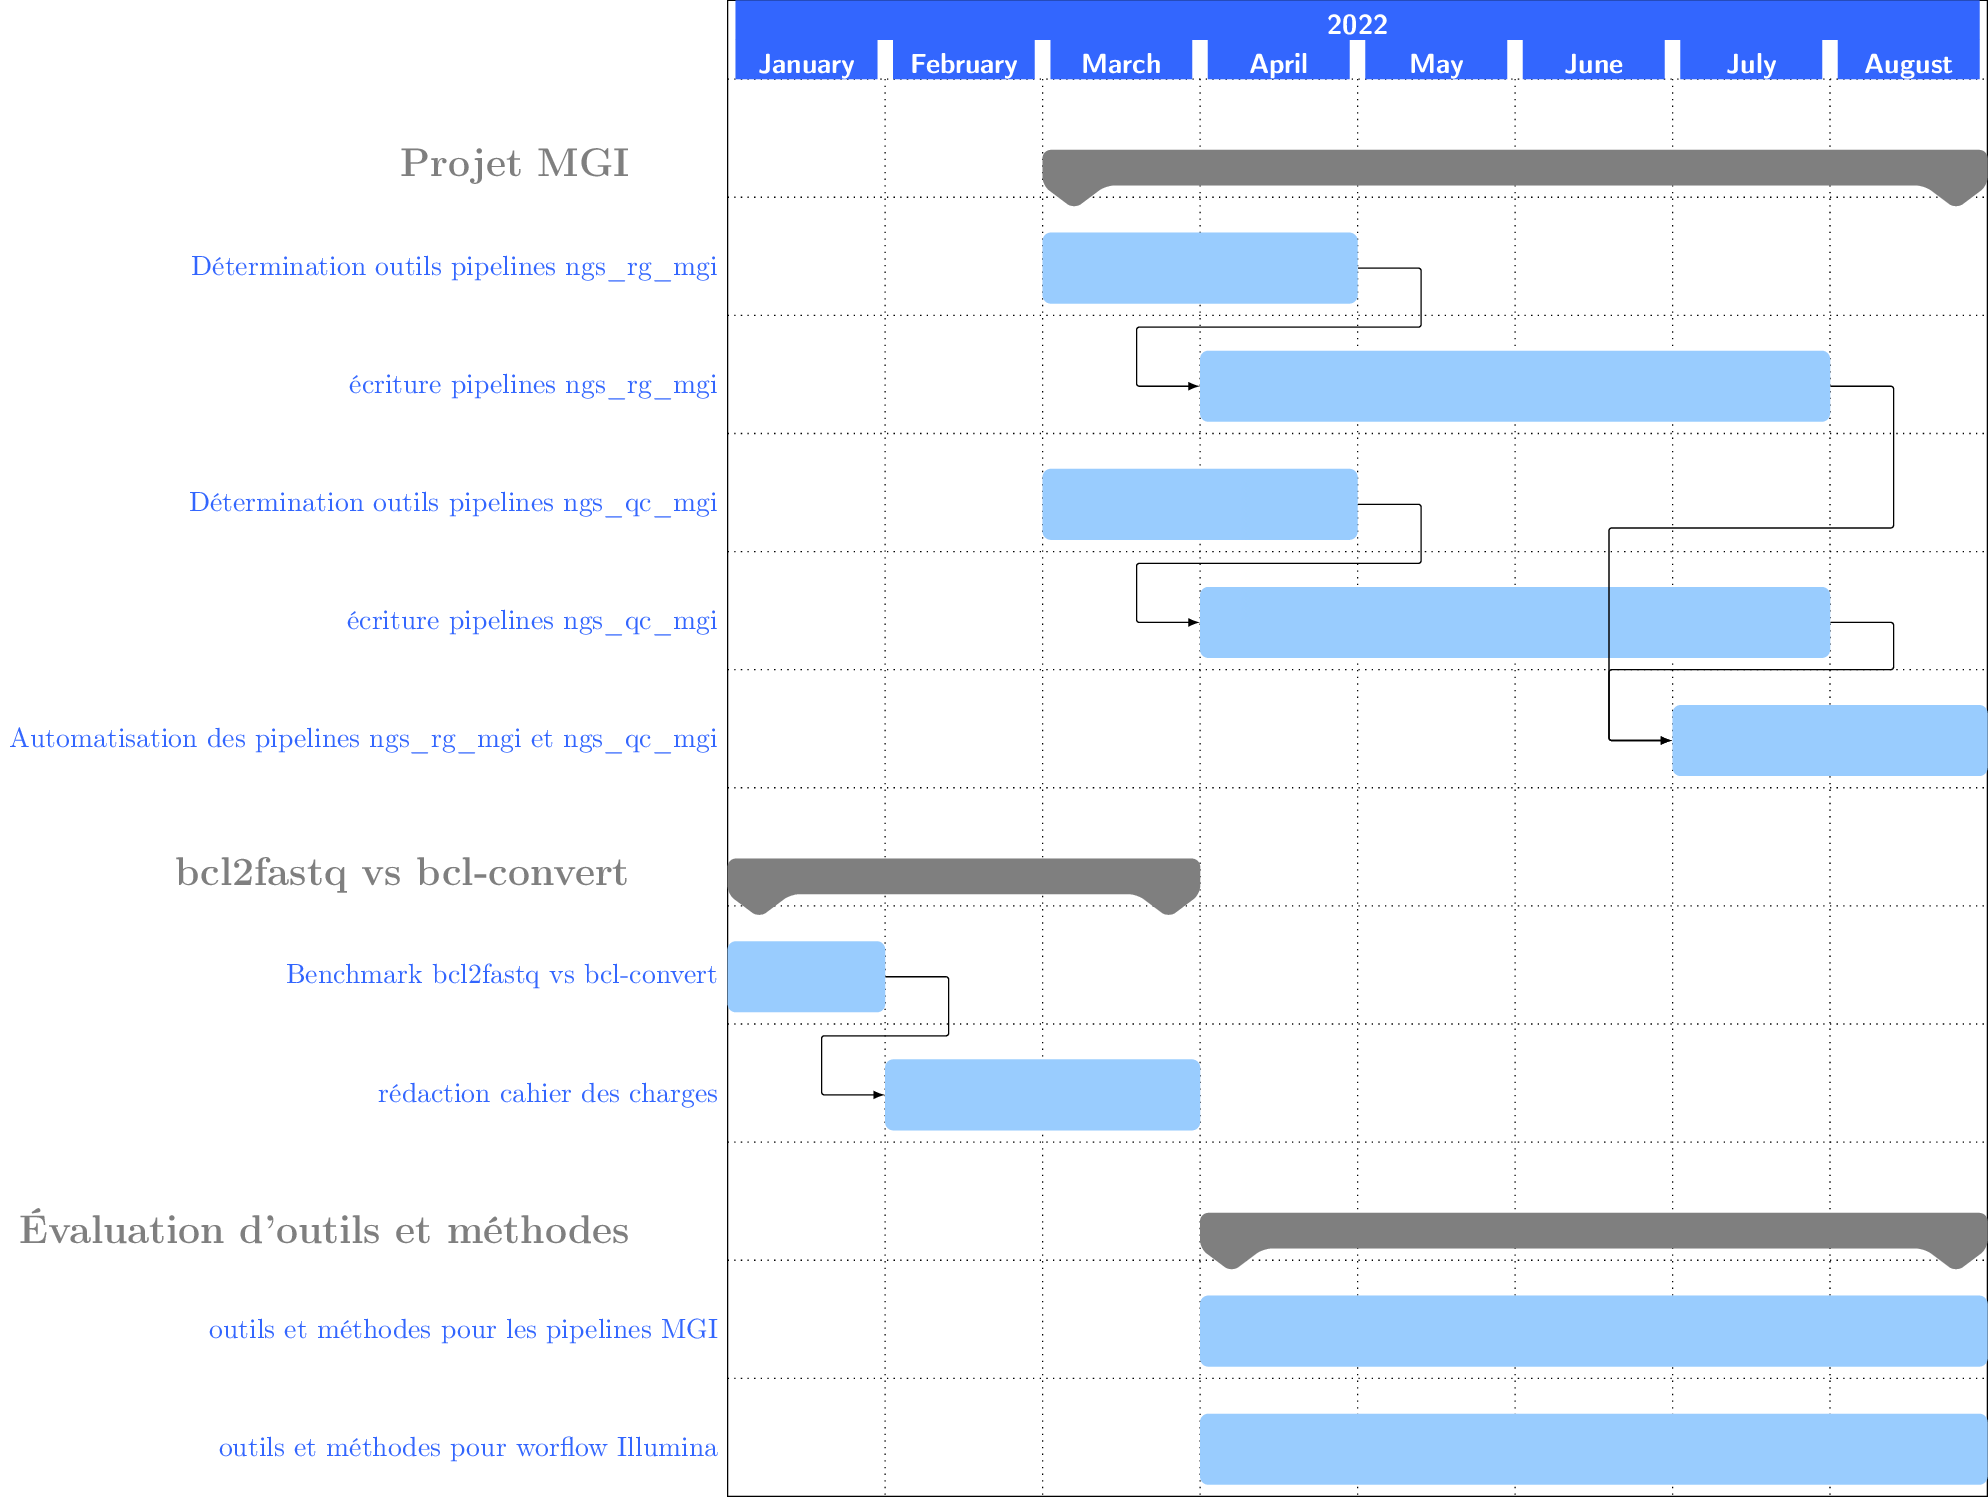
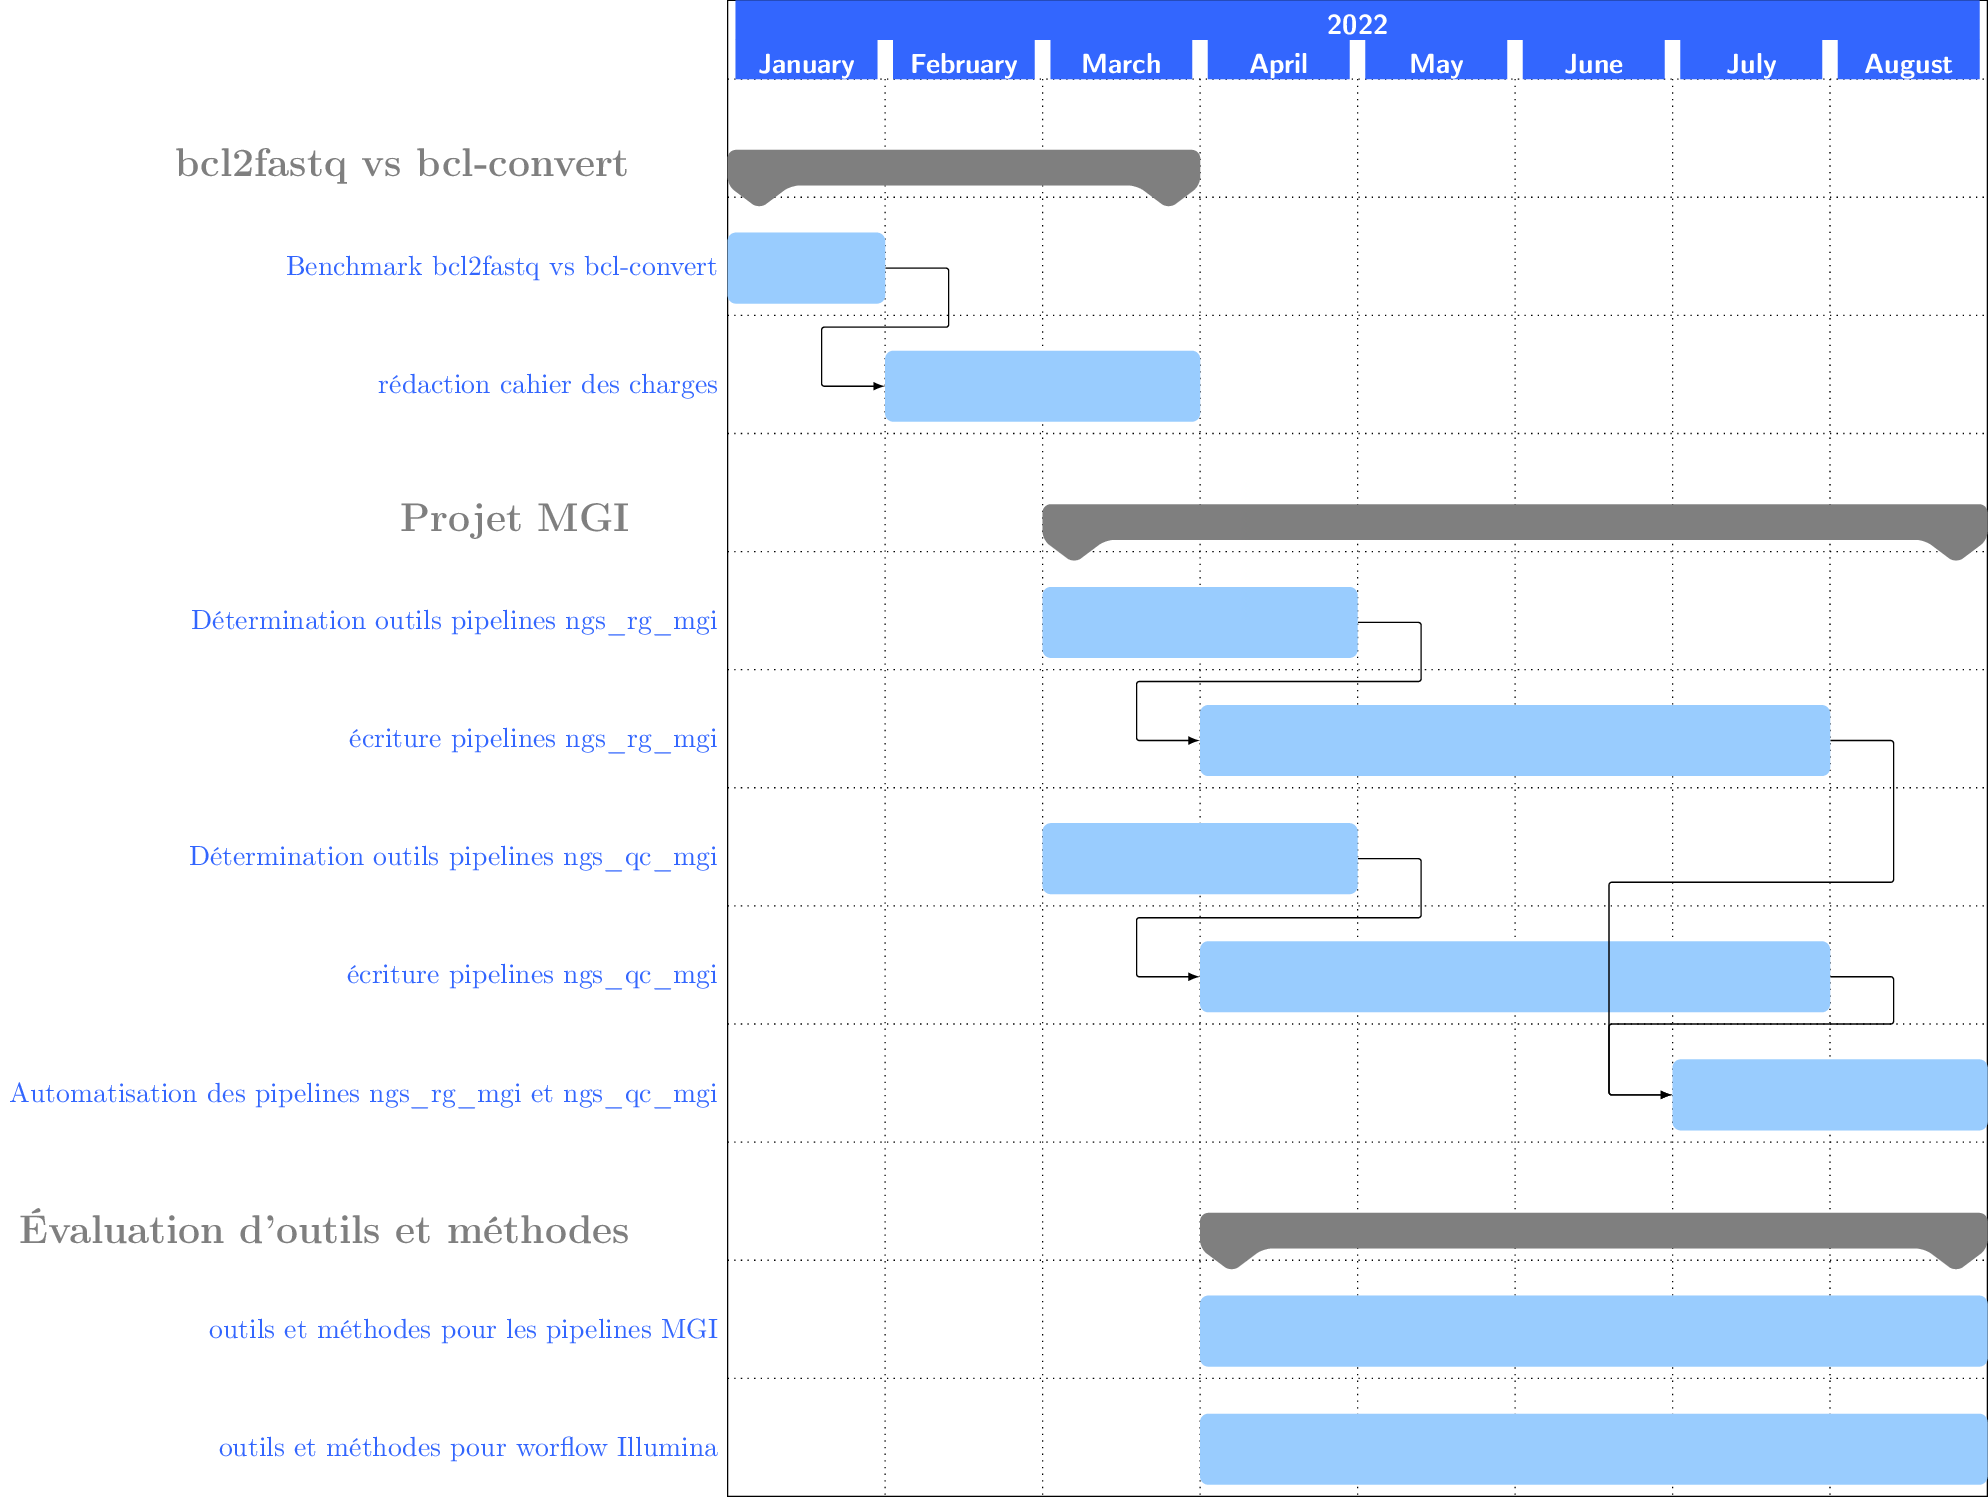
Change order of tasks

diff --git a/rapport/rapport_1/digramme_gant/diag_gantt.tex b/rapport/rapport_1/digramme_gant/diag_gantt.tex
@@ -51,7 +51,26 @@
 
 \gantttitlecalendar{year, month=name}\\
 
-% 1er goupe ======================================================%
+
+
+% 1er groupe =====================================================%
+\ganttgroup[
+    group left shift=0,
+    group right shift=0,
+    group label font=\color{gray},
+]{\Large{\textbf{bcl2fastq vs bcl-convert}}~~~~~~~~}{2022-01-01}{2022-03-01}\\
+
+\ganttbar[
+    name=T1A,
+    bar label font=\normalsize\color{barblue},
+]{Benchmark bcl2fastq vs bcl-convert}{2022-01-01}{2022-01-29}\\
+
+\ganttlinkedbar[
+    bar label font=\normalsize\color{barblue},
+    name=pp
+   ]{rédaction cahier des charges}{2022-02-03}{2022-03-14} \\
+
+% 2ème groupe ======================================================%
 \ganttgroup[
     group left shift=0,
     group right shift=0,
@@ -87,22 +106,7 @@
 \ganttlink[link mid=.4]{P1-T2.1}{P1-T3}
 
 
-% 2eme groupe =====================================================%
-\ganttgroup[
-    group left shift=0,
-    group right shift=0,
-    group label font=\color{gray},
-]{\Large{\textbf{bcl2fastq vs bcl-convert}}~~~~~~~~}{2022-01-01}{2022-03-01}\\
 
-\ganttbar[
-    name=T1A,
-    bar label font=\normalsize\color{barblue},
-]{Benchmark bcl2fastq vs bcl-convert}{2022-01-01}{2022-01-29}\\
-
-\ganttlinkedbar[
-    bar label font=\normalsize\color{barblue},
-    name=pp
-   ]{rédaction cahier des charges}{2022-02-03}{2022-03-14} \\
 
 
 % 3eme groupe ======================================================%
